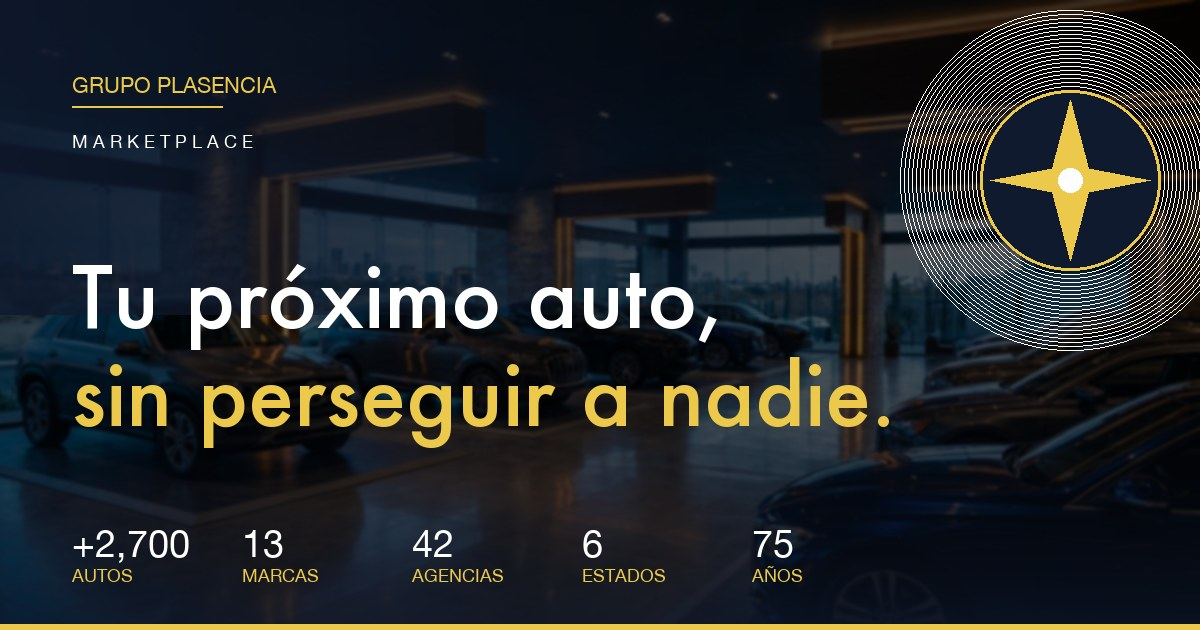
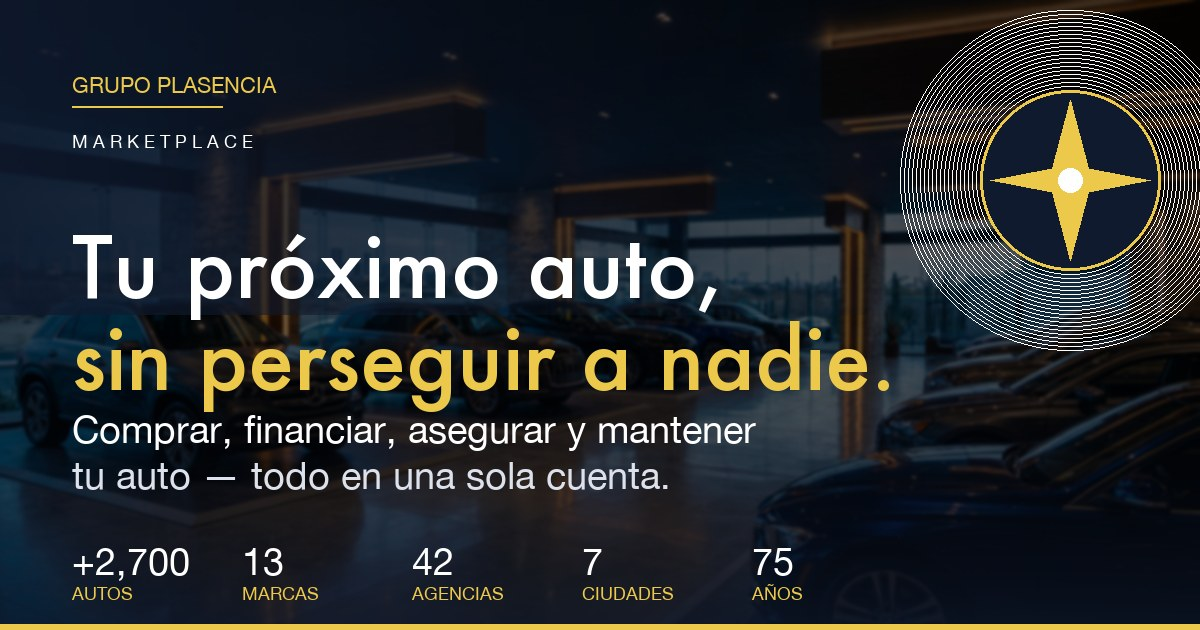
ux-writing: de jerga interna a lenguaje cliente · refactor E2E
HERO refinado
- Eyebrow: "Las 13 marcas de Plasencia, en un solo lugar" (era: "El único marketplace con X autos · Y marcas · Z agencias")
- Lede: cliente-centrico, beneficio concreto + dolor evitado
- "Sin filas, sin llamadas perdidas, sin tener que ir agencia por agencia."

SECCION BENTO "Por qué te conviene comprar aquí"
- H2: "Más opciones, mejor precio, menos vueltas" (era: "El músculo del occidente, ahora digital")
- Lede empática: "Comprar un auto no debería ser un viaje de un mes con visitas a cinco agencias"
- Cards reescritas en lenguaje cliente:
  * +2,700 → "Más opciones, sin tener que esperar"
  * 42 → "Una agencia cerca de ti"
  * 13 → "Todas las marcas, lado a lado"
  * "Precio justo" → "Sin regateo, sin sorpresas"
  * "Desde 1951" → "Familias completas nos eligen"
  * Dark card → "Lo difícil empieza después de comprar"

LANDINGS refinadas (todas en voz cliente):
- Trade-in: "Tu auto vale más cuando hay a quién venderlo" (era: "...cuando lo vendes con escala")
- Crédito: "Crédito con la tasa que mereces" (era: "...con tasa que solo el volumen logra")
- Autolease: "Renta el auto que necesites, cuando lo necesites"
- Seguros: "Cobertura que sí responde cuando la necesitas"
- Flotillas: "Tu flota, simple"
- Concesionarias: "Elige con quién quieres tratar"

OG IMAGE v3 generada con subtitle cliente:
- H1: "Tu próximo auto, sin perseguir a nadie" (preservado, funciona)
- Subtitle nuevo: "Comprar, financiar, asegurar y mantener tu auto — todo en una sola cuenta"
[…]

diff --git a/prototype/views.js b/prototype/views.js
@@ -40,7 +40,7 @@ home(){
     [I.trending(24),'Vende o cambia el que ya tienes','Sube fotos, recibe oferta firme en 2 minutos. Decide después: efectivo, cambio o esperar.','#/trade-in'],
     [I.card(24),'Págalo como te acomode','Crédito con tasa fija sin afectar tu buró, contado con descuento, o arrendamiento puro si facturas.','#/credito'],
     [I.umbrella(24),'Asegúralo aquí mismo','Cobertura amplia respaldada por GNP. Cotiza, contrata y administra desde tu cuenta.','#/seguros'],
-    [I.briefcase(24),'¿Es para tu empresa?','Flotillas: cotización empresarial cross-marca, contrato marco, mantenimiento en los 42 talleres.','#/flotillas'],
+    [I.briefcase(24),'¿Es para tu empresa?','Flotillas: una sola factura, varias marcas, mantenimiento en cualquier agencia del grupo.','#/flotillas'],
     [I.wrench(24),'Mantenlo donde lo compraste','Servicio y refacciones en los 42 talleres del grupo. Agenda en línea, ve tu historial completo.'],
   ];
   // Entradas por INTENCION del cliente, en su voz
@@ -61,9 +61,9 @@ home(){
   <section class="hero">
     <div class="bg"></div><div class="grad"></div>
     <div class="hero-in fu">
-      <div class="eyebrow gold">El único marketplace con +${num(INVENTORY.total)} autos · 13 marcas · ${INVENTORY.agencias} agencias propias en ${INVENTORY.estados} estados</div>
+      <div class="eyebrow gold">Las 13 marcas de Plasencia, en un solo lugar</div>
       <h1 style="margin-top:14px">Tu próximo auto,<br><span class="y">sin perseguir a nadie.</span></h1>
-      <p class="sub">Ningún concesionario individual te puede ofrecer esto. Ningún marketplace digital tampoco. Plasencia sí — porque opera el inventario, las agencias y la postventa. <b style="color:#fff">75 años de músculo</b> al servicio de tu próximo auto.</p>
+      <p class="sub">Compáralas todas, financia como quieras, asegúralo donde lo compras y dale servicio cerca de tu casa. <b style="color:#fff">Sin filas, sin llamadas perdidas, sin tener que ir agencia por agencia.</b></p>
       <div class="search-shell">
         <div class="si">${I.search(20)}<input placeholder="¿Qué buscas? SUV familiar, pickup de trabajo, sedán económico…" onkeydown="if(event.key==='Enter')go('#/catalogo?q='+encodeURIComponent(this.value))"></div>
         <button class="btn btn-conv btn-lg" onclick="go('#/catalogo')">Ver catálogo</button>
@@ -89,40 +89,40 @@ home(){
     </div>
   </div></section>
 
-  <!-- POR QUÉ PLASENCIA · músculo articulado -->
+  <!-- POR QUÉ TE CONVIENE · lenguaje cliente -->
   <section class="sec authority"><div class="wrap">
-    <div class="eyebrow">Por qué este marketplace puede existir</div>
-    <h2 style="margin-top:10px">El músculo del occidente, ahora digital.</h2>
-    <p class="lede">Comprar nuevo y seminuevo, financiar, asegurar y dar servicio — todo en una sola cuenta — no es trivial. Requiere inventario propio, agencias propias, talleres propios. <b style="color:var(--navy)">Plasencia es el único grupo en México occidental que opera las tres cosas a la escala que el marketplace digital necesita.</b></p>
+    <div class="eyebrow">Por qué te conviene comprar aquí</div>
+    <h2 style="margin-top:10px">Más opciones, mejor precio,<br>menos vueltas.</h2>
+    <p class="lede">Comprar un auto no debería ser un viaje de un mes con visitas a cinco agencias. Aquí ves todo el inventario del grupo en un solo lugar, comparas con calma, y decides con datos.</p>
     <div class="bento">
       <div class="b-card b-big">
         <div class="b-num tnum">+${num(INVENTORY.total)}</div>
-        <h3>Unidades en piso, ahora mismo</h3>
-        <p>1,950 nuevas + 750 seminuevas multi-marca. <b>Cross-stock entre las ${INVENTORY.agencias} agencias</b>: si el auto que quieres está en Tepic, te lo movemos a tu agencia más cercana en 24-48h sin costo.</p>
+        <h3>Más opciones, sin tener que esperar</h3>
+        <p>Si el auto que te interesa está en otra ciudad del grupo, <b>te lo movemos a tu agencia más cercana en 24 a 48 horas. Sin costo extra.</b></p>
       </div>
       <div class="b-card b-gold">
         <div class="b-num tnum">${INVENTORY.agencias}</div>
-        <h3>Agencias propias</h3>
-        <p>No revendedores, no intermediarios. Cobertura en ${INVENTORY.estados} estados del occidente.</p>
+        <h3>Una agencia cerca de ti</h3>
+        <p>Compras en una, das servicio en otra, vendes en una tercera. Tu cuenta y tu historial te siguen.</p>
       </div>
       <div class="b-card">
         <div class="b-num tnum">${MARCAS_NUEVAS.length}</div>
-        <h3>Marcas representadas</h3>
-        <p>Compara entre todas sin tener que ir a 13 lugares distintos. <b>Único grupo en el occidente con este alcance.</b></p>
+        <h3>Todas las marcas, lado a lado</h3>
+        <p>Compara un Mazda con un Hyundai, un RAM con un Jeep, sin tener que ir a 13 lugares distintos. Tú decides cuál te queda.</p>
       </div>
       <div class="b-card">
-        <div class="b-num tnum">800</div>
-        <h3>Facturas al mes</h3>
-        <p>Volumen real (no solo listings). Eso nos da poder de negociación con bancos, aseguradoras y proveedores — y bajamos precio a ti.</p>
+        <div class="b-num">Precio<br>justo</div>
+        <h3>Sin regateo, sin sorpresas</h3>
+        <p>Trabajamos con varios bancos y aseguradoras al mismo tiempo. Te buscamos la mejor tasa y la mejor prima — y bajamos precio a ti.</p>
       </div>
       <div class="b-card">
-        <div class="b-num tnum">75</div>
-        <h3>Años de respaldo</h3>
-        <p>Fundado en 1951. Garantías que se honran. Talleres que llevan décadas operando.</p>
+        <div class="b-num">Desde<br>1951</div>
+        <h3>Familias completas nos eligen</h3>
+        <p>Tres generaciones de clientes. Garantías que se cumplen. Talleres con mecánicos que llevan años.</p>
       </div>
       <div class="b-card b-dark">
-        <h3 style="color:#fff">¿Por qué importa para ti?</h3>
-        <p style="color:rgba(255,255,255,.75)">Porque <b style="color:var(--gold)">la escala se traduce en mejores precios, mejor servicio y menos sorpresas</b>. Un concesionario individual te da una marca y un punto. Un marketplace digital te da listings sin garantía. Plasencia te da las dos cosas, en una cuenta, con respaldo de 75 años.</p>
+        <h3 style="color:#fff">Lo difícil empieza después de comprar.</h3>
+        <p style="color:rgba(255,255,255,.78)">Comprar es la parte fácil — todos te venden. Lo difícil es lo de después: que el crédito sea justo, que el seguro responda, que el servicio no sea una pelea. <b style="color:var(--gold)">Aquí lo tenemos todo conectado en una sola cuenta</b> — para que no se te complique.</p>
       </div>
     </div>
   </div></section>
@@ -212,7 +212,7 @@ home(){
       <div class="ctn">
         <div class="eyebrow gold">Para ti y tu familia</div>
         <h2>Empieza por el auto. Quédate por el grupo.</h2>
-        <p>Explora el catálogo cross-marca y vive la experiencia automotriz como debe ser en la era digital y de la IA.</p>
+        <p>Empieza por el catálogo. Compara, decide, agenda — y nosotros te acompañamos en cada paso de aquí en adelante.</p>
         <div style="margin-top:24px;display:flex;gap:10px;flex-wrap:wrap">
           <button class="btn btn-gold btn-lg" onclick="go('#/catalogo')">Explorar catálogo</button>
           <button class="btn btn-ghost-dark btn-lg" onclick="Plasi.open()">${I.chat(16)} Hablar con Plasi</button>
@@ -249,9 +249,9 @@ catalogo(){
 // ====== CONCESIONARIAS ======
 concesionarias(){
   return `<div class="wrap" style="padding:40px 24px 0">
-    <div class="eyebrow">+${num(INVENTORY.total)} autos · ${INVENTORY.agencias} agencias · 13 marcas · ${INVENTORY.estados} estados</div>
+    <div class="eyebrow">Las agencias del grupo</div>
     <h2 style="font-size:clamp(24px,3vw,34px);color:var(--navy);margin-top:8px">Elige con quién quieres tratar.</h2>
-    <p class="lede">El grupo opera <b>${INVENTORY.agencias} agencias</b> en ${INVENTORY.ciudades.join(', ')}. Aquí ves las ${SUCS.length} más activas en Guadalajara. <a style="color:var(--blue-d);text-decoration:underline;cursor:pointer" onclick="Plasi.open('¿Tienen agencia en mi ciudad?')">Pregunta por tu ciudad</a> · tu cuenta funciona en cualquiera.</p>
+    <p class="lede">Cada agencia tiene su propio rating y reseñas. Compras en una, das servicio en otra, vendes en una tercera — tu cuenta y tu historial te siguen. Aquí ves las ${SUCS.length} más activas en Guadalajara. ¿Vives en Tepic, Colima, P. Vallarta, SLP o Mazatlán? <a style="color:var(--blue-d);text-decoration:underline;cursor:pointer" onclick="Plasi.open('¿Tienen agencia en mi ciudad?')">También llegamos</a>.</p>
   </div>
   <div class="wrap" style="padding-bottom:48px;padding-top:24px"><div class="dealer-grid">
     ${SUCS.map(d=>{const inv=INVENTORY.porSucursal[d.id]||d.autos;return `<div class="dealer" onclick="go('#/concesionaria/${d.id}')">
@@ -303,9 +303,9 @@ tradein(){
   ];
   return `<section class="tradein-hero"><div class="wrap">
     <div>
-      <div class="eyebrow gold" style="color:var(--gold)">Vende o cambia tu auto · cualquier marca</div>
-      <h1 style="margin-top:14px">Tu auto vale más<br><span>cuando lo vendes con escala.</span></h1>
-      <p class="sub">Plasencia es el único marketplace que opera <b style="color:#fff">${INVENTORY.agencias} agencias en ${INVENTORY.estados} estados</b> y vende seminuevos <b style="color:#fff">multi-marca</b>. Por eso tu Toyota, Nissan, VW o cualquier marca vale más con nosotros — porque tenemos los 15 lotes donde colocarlo. Oferta firme en 2 minutos.</p>
+      <div class="eyebrow gold" style="color:var(--gold)">Tu auto a cuenta · cualquier marca</div>
+      <h1 style="margin-top:14px">Tu auto vale más<br><span>cuando hay a quién venderlo.</span></h1>
+      <p class="sub">No importa si tienes un Toyota, Nissan, VW o cualquier otra marca. Lo <b style="color:#fff">recibimos a cuenta de tu próximo auto</b>, te lo compramos en efectivo o te damos 7 días para decidir — sin compromiso. La oferta llega en 2 minutos.</p>
       <div style="margin-top:24px;display:flex;gap:10px;flex-wrap:wrap">
         <button class="btn btn-gold btn-lg" onclick="Flow.openTradein()">Empezar valuación ${I.arrowR(16)}</button>
         <button class="btn btn-ghost-dark btn-lg" onclick="Plasi.open('¿Cómo funciona el trade-in?')">¿Cómo funciona?</button>
@@ -339,7 +339,7 @@ tradein(){
     </div>
     <div style="margin-top:60px;background:#fff;border:1px solid var(--n200);border-radius:18px;padding:32px;display:grid;grid-template-columns:repeat(3,1fr);gap:24px">
       <div><div class="eyebrow">Por qué Plasencia paga más</div></div>
-      <div><div style="display:flex;align-items:center;gap:10px"><span style="color:var(--green-d)">${I.check(20)}</span><b style="font-family:var(--disp);color:var(--navy)">200+ trade-ins/mes</b></div><p style="font-size:13px;color:var(--n600);margin-top:6px">Volumen en 42 agencias da escala para pagar mejor.</p></div>
+      <div><div style="display:flex;align-items:center;gap:10px"><span style="color:var(--green-d)">${I.check(20)}</span><b style="font-family:var(--disp);color:var(--navy)">Pagamos mejor</b></div><p style="font-size:13px;color:var(--n600);margin-top:6px">Recibimos cientos de autos al mes en cualquier marca — por eso te pagamos más por el tuyo.</p></div>
       <div><div style="display:flex;align-items:center;gap:10px"><span style="color:var(--green-d)">${I.check(20)}</span><b style="font-family:var(--disp);color:var(--navy)">Inventario propio</b></div><p style="font-size:13px;color:var(--n600);margin-top:6px">Plasencia Seminuevos los re-vende → margen para mejor oferta.</p></div>
     </div>
   </div></section>`;
@@ -349,9 +349,9 @@ tradein(){
 credito(){
   return `<section class="tradein-hero"><div class="wrap">
     <div>
-      <div class="eyebrow gold" style="color:var(--gold)">Plasencia Crédito</div>
-      <h1 style="margin-top:14px">Crédito automotriz<br><span>con tasa que solo el volumen logra.</span></h1>
-      <p class="sub">Movemos <b style="color:#fff">~800 facturas al mes</b> entre las ${INVENTORY.agencias} agencias del grupo. Eso nos da poder de negociación con bancos que ningún concesionario individual tiene — y la tasa preferencial llega a ti: <b style="color:#fff">13.5% fija</b>, plazos 12-60 meses, pre-aprobación en 2 minutos sin afectar buró.</p>
+      <div class="eyebrow gold" style="color:var(--gold)">Plasencia Crédito · sin afectar tu buró</div>
+      <h1 style="margin-top:14px">Crédito automotriz<br><span>con la tasa que mereces.</span></h1>
+      <p class="sub">Trabajamos con varios bancos al mismo tiempo y elegimos por ti la mejor oferta. <b style="color:#fff">Tasa fija desde 13.5%</b>, plazos de 12 a 60 meses, enganche desde 20%. Pre-aprobación en 2 minutos, sin afectar tu buró.</p>
       <div style="margin-top:24px;display:flex;gap:10px;flex-wrap:wrap">
         <button class="btn btn-gold btn-lg" onclick="Flow.openCredito()">Pre-aprobarme ahora ${I.arrowR(16)}</button>
         <button class="btn btn-ghost-dark btn-lg" onclick="go('#/autolease')">¿Mejor arrendamiento?</button>
@@ -389,9 +389,9 @@ credito(){
 autolease(){
   return `<section class="tradein-hero"><div class="wrap">
     <div>
-      <div class="eyebrow gold" style="color:var(--gold)">GP Autolease · único cross-marca en el occidente</div>
-      <h1 style="margin-top:14px">Arrendamiento puro<br><span>de las 13 marcas, en un solo contrato.</span></h1>
-      <p class="sub">¿Necesitas un Mazda CX-5 hoy y un RAM 2500 en 2 años? Con Plasencia, el mismo contrato marco te cubre las <b style="color:#fff">13 marcas del grupo</b>. Renta mensual fija deducible para PFAE y empresas, plazos 24-48m. Al final: renuevas, devuelves o compras. Único Autolease en MX que opera <b style="color:#fff">cross-marca + mantenimiento en los ${INVENTORY.agencias} talleres</b>.</p>
+      <div class="eyebrow gold" style="color:var(--gold)">GP Autolease · arrendamiento puro deducible</div>
+      <h1 style="margin-top:14px">Renta el auto que necesites,<br><span>cuando lo necesites.</span></h1>
+      <p class="sub">Para PFAE y empresas: <b style="color:#fff">renta mensual fija, deducible al 100%</b>, sin enganche fuerte. Si en 2 años necesitas otro auto del grupo, lo cambias sin reabrir contratos. Y si quieres quedártelo al final, también puedes. Plazos 24 a 48 meses.</p>
       <div style="margin-top:24px;display:flex;gap:10px;flex-wrap:wrap">
         <button class="btn btn-gold btn-lg" onclick="Flow.openLease()">Cotizar arrendamiento ${I.arrowR(16)}</button>
         <button class="btn btn-ghost-dark btn-lg" onclick="go('#/credito')">¿Mejor crédito?</button>
@@ -412,8 +412,8 @@ seguros(){
   return `<section class="tradein-hero"><div class="wrap">
     <div>
       <div class="eyebrow gold" style="color:var(--gold)">Plasencia Seguros · respaldado por GNP</div>
-      <h1 style="margin-top:14px">Cobertura premium<br><span>con tarifa preferencial.</span></h1>
-      <p class="sub">Aseguramos <b style="color:#fff">+${num(INVENTORY.total)} unidades del grupo</b> con GNP. Ese volumen nos da tarifa que ningún broker individual consigue — y bajamos prima a ti. Amplia Plus con auto sustituto, asistencia 24/7 y taller propio en cualquiera de las <b style="color:#fff">${INVENTORY.agencias} agencias</b> sin que tengas que pelear con la aseguradora.</p>
+      <h1 style="margin-top:14px">Cobertura que sí responde<br><span>cuando la necesitas.</span></h1>
+      <p class="sub">Si tu auto se daña o te lo roban, <b style="color:#fff">te damos otro mientras se resuelve</b>. Asistencia 24/7 en todo México. Cuando necesites servicio, lo llevas a cualquiera de nuestras agencias — sin que tengas que pelear con la aseguradora.</p>
       <div style="margin-top:24px;display:flex;gap:10px;flex-wrap:wrap">
         <button class="btn btn-gold btn-lg" onclick="Flow.openSeguro()">Cotizar mi seguro ${I.arrowR(16)}</button>
         <button class="btn btn-ghost-dark btn-lg" onclick="Plasi.open('¿Qué cubre el seguro Plasencia?')">¿Qué cubre?</button>
@@ -462,9 +462,9 @@ flotillas(){
   ];
   return `<section class="flotillas-hero"><div class="wrap">
     <div>
-      <div class="eyebrow gold" style="color:var(--gold)">Plasencia Flotillas · único proveedor cross-marca del occidente</div>
-      <h1 style="margin-top:14px">Una flota.<br><span>Catorce marcas. Una sola gestión.</span></h1>
-      <p class="sub">¿Tu flotilla necesita 8 pickups RAM, 4 SUVs Mazda y 2 Hyundai utilitarios? Plasencia es el <b style="color:#fff">único grupo en el occidente</b> que te entrega las 3 marcas con <b style="color:#fff">un solo contrato marco, una sola facturación</b> y servicio en las ${INVENTORY.agencias} agencias propias. Crédito, Autolease o contado.</p>
+      <div class="eyebrow gold" style="color:var(--gold)">Plasencia Flotillas · una flota, una sola gestión</div>
+      <h1 style="margin-top:14px">Tu flota,<br><span>simple.</span></h1>
+      <p class="sub">Combina las marcas que necesite tu operación — pickups, SUVs, sedanes, utilitarios — bajo <b style="color:#fff">un solo contrato y una sola factura</b>. Mantenimiento programado en las agencias del grupo. Pago a tu medida: crédito, arrendamiento o contado.</p>
       <div style="margin-top:24px;display:flex;gap:10px;flex-wrap:wrap">
         <button class="btn btn-gold btn-lg" onclick="Flow.openFlotilla()">Cotizar flotilla ${I.arrowR(16)}</button>
         <button class="btn btn-ghost-dark btn-lg" onclick="alert('Contacto comercial demo')">${I.phone(16)} Llamar a un asesor</button>

diff --git a/prototype/index.html b/prototype/index.html
@@ -7,7 +7,7 @@
 <meta name="format-detection" content="telephone=no">
 
 <title>Plasencia Marketplace · Tu próximo auto, sin perseguir a nadie</title>
-<meta name="description" content="+2,700 autos de 13 marcas en 42 agencias del occidente de México. Compra, vende, financia, asegura y mantén tu auto desde una sola cuenta — con 75 años de respaldo Plasencia.">
+<meta name="description" content="Compra, financia, asegura y mantén tu auto — todo en una sola cuenta. Comparas 13 marcas en un solo lugar, sin tener que ir agencia por agencia. Con 75 años de respaldo Plasencia.">
 <meta name="keywords" content="autos nuevos guadalajara, seminuevos certificados, marketplace automotriz, plasencia, mazda, hyundai, jeep, ram, ford, gac, crédito auto, autolease, trade in, valuar mi auto">
 <meta name="author" content="Grupo Plasencia Automotriz">
 
@@ -15,7 +15,7 @@
 <meta property="og:type" content="website">
 <meta property="og:site_name" content="Plasencia Marketplace">
 <meta property="og:title" content="Plasencia Marketplace · Tu próximo auto, sin perseguir a nadie">
-<meta property="og:description" content="+2,700 autos de 13 marcas en 42 agencias del occidente. Compra, financia, asegura y mantén tu auto desde una sola cuenta — 75 años de respaldo Plasencia.">
+<meta property="og:description" content="Tu próximo auto, sin perseguir a nadie. Compras, financias, aseguras y mantienes — todo en una sola cuenta. 75 años de respaldo Plasencia.">
 <meta property="og:url" content="https://mktgrupoplasenciaautomotriz.github.io/grupo-plasencia-decks/prototype/">
 <meta property="og:image" content="https://mktgrupoplasenciaautomotriz.github.io/grupo-plasencia-decks/prototype/og-cover.jpg">
 <meta property="og:image:secure_url" content="https://mktgrupoplasenciaautomotriz.github.io/grupo-plasencia-decks/prototype/og-cover.jpg">
@@ -28,7 +28,7 @@
 <!-- Twitter / X Card -->
 <meta name="twitter:card" content="summary_large_image">
 <meta name="twitter:title" content="Plasencia Marketplace · Tu próximo auto, sin perseguir a nadie">
-<meta name="twitter:description" content="+2,700 autos · 13 marcas · 42 agencias en 6 estados del occidente. Compra, financia y mantén tu auto desde una sola cuenta. 75 años de respaldo.">
+<meta name="twitter:description" content="Compra, financia, asegura y mantén tu auto — todo en una sola cuenta. 13 marcas, sin tener que ir agencia por agencia. 75 años de respaldo Plasencia.">
 <meta name="twitter:image" content="https://mktgrupoplasenciaautomotriz.github.io/grupo-plasencia-decks/prototype/og-cover.jpg">
 <meta name="twitter:image:alt" content="Plasencia Marketplace — +2,700 autos de 13 marcas en 42 agencias">
 
@@ -39,21 +39,21 @@
 <link rel="preconnect" href="https://fonts.googleapis.com">
 <link rel="preconnect" href="https://fonts.gstatic.com" crossorigin>
 <link href="https://fonts.googleapis.com/css2?family=Inter:wght@400;500;600;700;800&family=Montserrat:wght@600;700;800;900&display=swap" rel="stylesheet">
-<link rel="stylesheet" href="styles.css?v=21">
-<link rel="stylesheet" href="styles2.css?v=21">
-<link rel="stylesheet" href="styles3.css?v=21">
-<link rel="stylesheet" href="polish.css?v=21">
+<link rel="stylesheet" href="styles.css?v=22">
+<link rel="stylesheet" href="styles2.css?v=22">
+<link rel="stylesheet" href="styles3.css?v=22">
+<link rel="stylesheet" href="polish.css?v=22">
 </head>
 <body>
 <div id="app"><div class="loading">Cargando Plasencia Marketplace…</div></div>
 <button class="plasi-btn" id="plasiBtn" onclick="Plasi.open()" aria-label="Hablar con Plasi"><span class="av-iso" id="plasiBtnIso"></span><span>Pregúntale a Plasi · IA</span></button>
-<script src="icons.js?v=21"></script>
-<script src="flows.js?v=21"></script>
-<script src="wizards.js?v=21"></script>
-<script src="account.js?v=21"></script>
-<script src="views.js?v=21"></script>
-<script src="app.js?v=21"></script>
-<script src="polish.js?v=21"></script>
+<script src="icons.js?v=22"></script>
+<script src="flows.js?v=22"></script>
+<script src="wizards.js?v=22"></script>
+<script src="account.js?v=22"></script>
+<script src="views.js?v=22"></script>
+<script src="app.js?v=22"></script>
+<script src="polish.js?v=22"></script>
 <script>document.getElementById('plasiBtnIso').innerHTML=I.plasi(36)</script>
 </body>
 </html>

diff --git a/prototype/polish.css b/prototype/polish.css
@@ -407,7 +407,8 @@ img[loading="lazy"].loaded,img[loading="lazy"][src]:not([src=""]){opacity:1}
 .b-card{background:var(--bg-surface);border:1px solid var(--border-subtle);border-radius:var(--r-xl);padding:24px;display:flex;flex-direction:column;gap:8px;transition:all var(--d-base) var(--e-out);position:relative;overflow:hidden}
 .b-card::before{content:"";position:absolute;top:0;right:0;width:80px;height:80px;background:radial-gradient(circle,rgba(236,201,75,.06),transparent 70%);pointer-events:none}
 .b-card:hover{transform:translateY(-3px);box-shadow:var(--sh-md);border-color:var(--border-default)}
-.b-card .b-num{font-family:var(--disp);font-weight:900;font-size:clamp(40px,4vw,56px);line-height:1;letter-spacing:-.03em;color:var(--p-navy);background:linear-gradient(180deg,var(--p-navy),var(--p-slate));-webkit-background-clip:text;background-clip:text;-webkit-text-fill-color:transparent}
+.b-card .b-num{font-family:var(--disp);font-weight:900;font-size:clamp(30px,3.2vw,44px);line-height:.95;letter-spacing:-.025em;color:var(--p-navy);background:linear-gradient(180deg,var(--p-navy),var(--p-slate));-webkit-background-clip:text;background-clip:text;-webkit-text-fill-color:transparent}
+.b-card .b-num.tnum{font-size:clamp(40px,4vw,56px);line-height:1}
 .b-card h3{font-size:15px;color:var(--p-navy);font-weight:800;margin-top:4px;line-height:1.3}
 .b-card p{font-size:13px;color:var(--text-2);line-height:1.55}
 .b-card p b{color:var(--p-navy)}

diff --git a/prototype/_gen/og.py b/prototype/_gen/og.py
@@ -56,15 +56,20 @@ y+=58
 draw.text((PAD,y),'M A R K E T P L A C E',font=f_disp_sm,fill=WHITE)
 
 # Headline
-y=240
+y=210
 draw.text((PAD,y),'Tu próximo auto,',font=f_disp_xl,fill=WHITE)
-y+=98
+y+=92
 # Gold gradient texto via stroke + fill
 draw.text((PAD,y),'sin perseguir a nadie.',font=f_disp_xl,fill=GOLD)
+# Subtitle/proof
+y+=104
+draw.text((PAD,y),'Comprar, financiar, asegurar y mantener',font=f_disp_lg,fill=WHITE)
+y+=46
+draw.text((PAD,y),'tu auto — todo en una sola cuenta.',font=f_disp_lg,fill=(220,225,235))
 
-# Stats inferior
-y=H-110
-stats=[('+2,700','autos'),('13','marcas'),('42','agencias'),('6','estados'),('75','años')]
+# Stats inferior (más compactos, en una sola línea visual de respaldo)
+y=H-92
+stats=[('+2,700','autos'),('13','marcas'),('42','agencias'),('7','ciudades'),('75','años')]
 sx=PAD
 for n,l in stats:
     draw.text((sx,y),n,font=f_disp_lg,fill=WHITE)